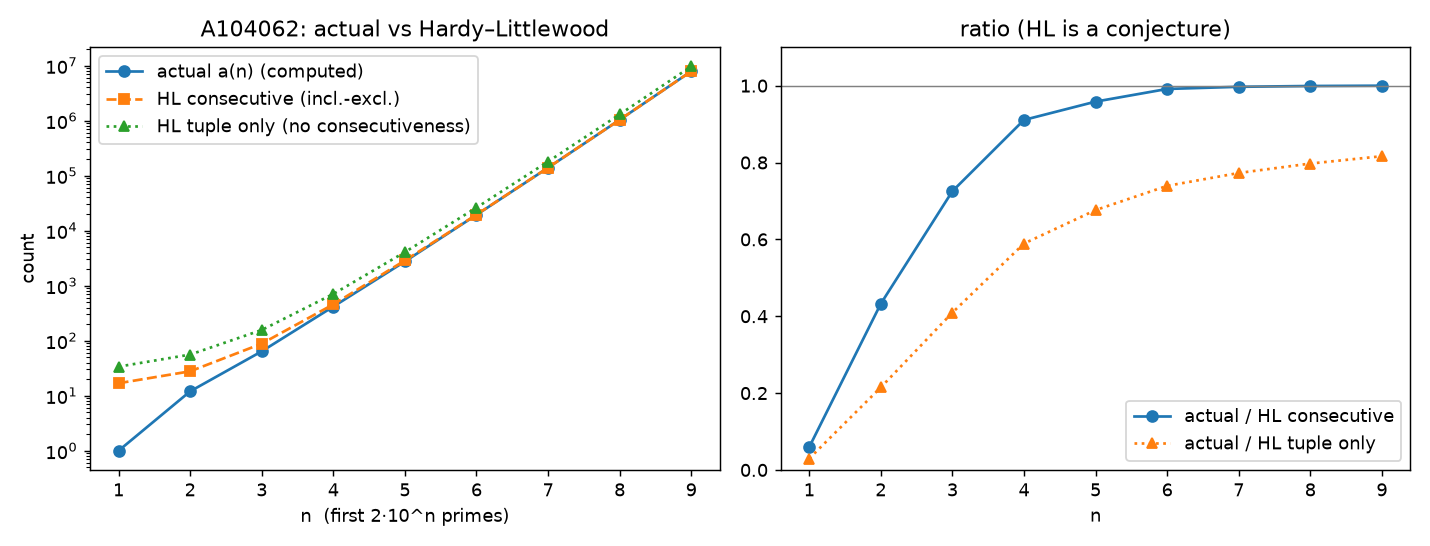
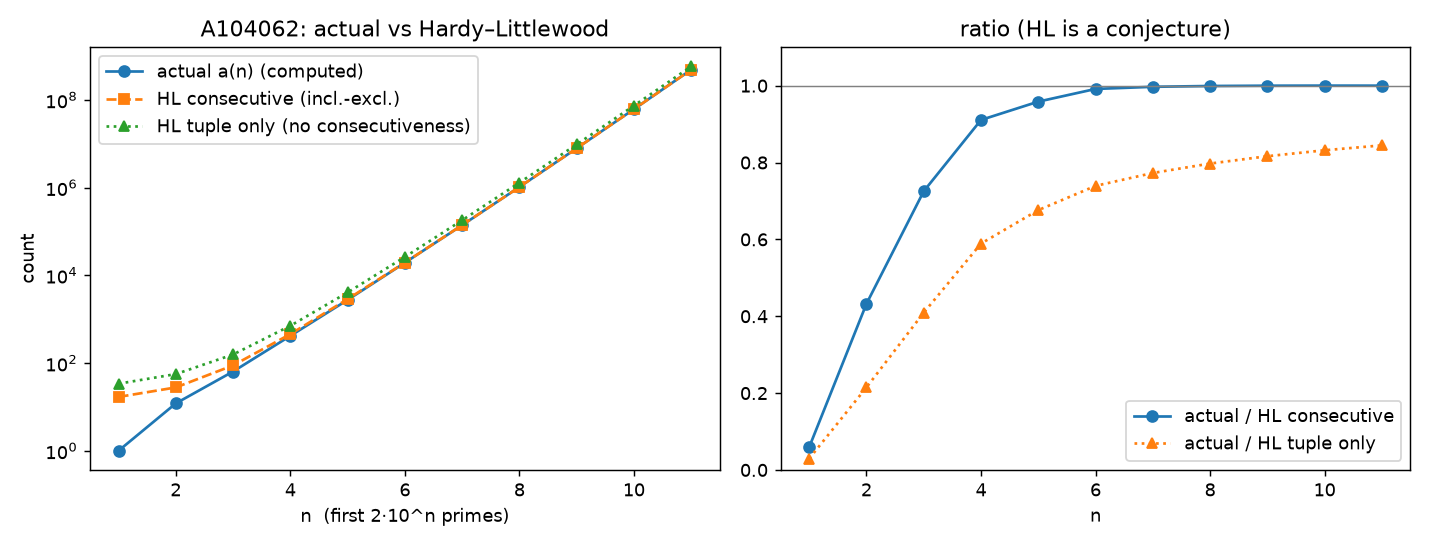
evidence: A104062 a(10)=61341010 (3 box counters agree) and a(11)=487855645 (Actions shards, pass A x20 = pass B x19); p(2e12)=61427839512211 by primecount + primesieve -n; HL ratios n=10,11; plot + README results

diff --git a/evidence/2026-10-16-a104062-a8-a9/README.md b/evidence/2026-10-16-a104062-a8-a9/README.md
@@ -1,4 +1,4 @@
-# A104062 a(8) and a(9) — computed, not proof; pending OEIS review (2026-10-16)
+# A104062 a(8), a(9), a(10), a(11) — computed, not proof; pending OEIS review (2026-10-16)
 
 A104062(n) = number of primes p(i), i ≤ 2·10^n, whose next three consecutive primes are p+6, p+12, p+18.
 Boundary rule: a quadruple is counted only when all four primes lie inside the first N = 2·10^n primes.
@@ -13,7 +13,31 @@ primes around p(N): `primesieve <P-18> <P+60> -p`).
 a(1..6) = 1, 12, 64, 416, 2748, 19348 (published) and a(7) = 138994 (see `../2026-10-16-a104062-a7/`) were reproduced
 by every method below.
 
-## Verifications (all agree exactly)
+## a(10) and a(11) (added 2026-10-16 evening)
+
+| n | N | p(N) | a(n) |
+|---|---|---|---|
+| 10 | 2·10^11 | 5,665,449,960,167 | **61,341,010** |
+| 11 | 2·10^12 | 61,427,839,512,211 | **487,855,645** |
+
+- **a(10), on the box (8 cores), three counters agree exactly.** `qs` (iterator, sharded), `qk` and
+  `tools/a104062/qk_range.c` (array API, 10^9 blocks) each give 61341010 with π(P)=2·10^11 (`a10_outputs.txt`).
+  `primesieve -n 2e11` gives 5665449960167.
+- **a(11), on GitHub Actions, workflow "A104062 shards", run 38969154507 (green).** p(N) comes from `primecount --nth-prime`
+  (primecount 7.16 → 61427839512211). Pass A is `tools/a104062/qs_range.c` over 20 shards; pass B is
+  `tools/a104062/qk_range.c` over 19 shards with different boundaries. Each shard counts quadruples whose first prime is
+  in its range and reads past its end for the next 3 primes, so edge-crossing quadruples are counted exactly once.
+  Pass A gives 487855645 quadruples and Pass B gives 487855645; both count exactly 2·10^12 primes ≤ P, which independently
+  confirms P = p(2·10^12). The workflow was validated first on N = 2·10^8 (run 38965729478 → 138994). The runners use
+  primesieve 12.0; the box uses 12.7.
+- **p(2·10^12) confirmed on the box:** `primesieve -n 2e12` (primesieve 12.7) → **61427839512211** (2583 s, `nth_prime.txt`), matching primecount.
+- **Boundary:** no quadruple straddles p(N) at either cutoff (primes around P listed with `primesieve <P-18> <P+60> -p`).
+- **The colony burst was not run for a(10) or a(11).** About 5·10^4 windows of 10^8 would be needed, well over 50 burst
+  runs, which is not a reasonable use of free compute. So the a(10) and a(11) checks are independent C programs, not the colony.
+- **HL ratio actual/consecutive:** n=10: 1.000121, n=11: 0.999995. This crosses 1, so it is consistent with fluctuation
+  around the HL prediction. It is evidence, not proof.
+
+## Verifications of a(8), a(9) (all agree exactly)
 1. **primesieve 12.7 text pipeline + `q9.c`** (the a(7) counter `/workspace/q.c`, extended to N up to 2·10^10, 64-bit):
    `primesieve 1 518649879439 -p | ./q9` → `q9_pipeline_output.txt` (single thread, 21 min on the box).
 2. **libprimesieve iterator, sharded, OpenMP (`qs.c`)**: `./qs 47055833459 8`, `./qs 518649879439 8` →
@@ -52,6 +76,8 @@ Hardy–Littlewood-type prediction for **consecutive** primes p, p+6, p+12, p+18
 | 7 | 138994 | 7.1839 | 179868.7 | 139407.5 | 0.99703 |
 | 8 | 1031312 | 7.4198 | 1293518.9 | 1032215.2 | 0.99912 |
 | 9 | 7863231 | 7.6245 | 9631449.0 | 7863975.6 | 0.99991 |
+| 10 | 61341010 | 7.8010 | 73737902.8 | 61333608.5 | 1.000121 |
+| 11 | 487855645 | 7.9532 | 577585671.6 | 487857895.1 | 0.999995 |
 
 `hl.py` holds the derivation, `hl.json` the numbers, `plot.py` the plot, and the plot is `a104062_actual_vs_hl.png`.
 

diff --git a/README.md b/README.md
@@ -16,9 +16,9 @@ keep a public, append-only record of everything. A human authorizes anything dur
   value was cross-checked independently with primesieve 12.7 plus a C counter, and with a pure-Python recount.
   *Computed value, not a proof; pending OEIS review.* Evidence and reproduction:
   [`evidence/2026-10-16-a104062-a7/`](evidence/2026-10-16-a104062-a7/README.md).
-- **OEIS A104062: computed a(8) = 1031312 and a(9) = 7863231** (first 2·10^9 and 2·10^10 primes). The colony's
+- **OEIS A104062: computed a(8) = 1031312, a(9) = 7863231, a(10) = 61341010, a(11) = 487855645** (first 2·10^9 … 2·10^12 primes; a(10) by three box counters, a(11) by two independently sharded passes on GitHub Actions). The colony's
   frontier burst and three primesieve-based C counters agree exactly. The Hardy–Littlewood prediction for *consecutive*
-  primes (inclusion–exclusion, constant 8.302 derived here) matches to within 0.01% at n=9. That agreement is evidence,
+  primes (inclusion–exclusion, constant 8.302 derived here) matches to within 0.013% from n=9 to n=11 (actual/predicted 1.000121 at n=10, 0.999995 at n=11). That agreement is evidence,
   not proof. *Computed, not proof; pending OEIS review.*
   [`evidence/2026-10-16-a104062-a8-a9/`](evidence/2026-10-16-a104062-a8-a9/README.md)
 - **Fresh holdout test (holdout_v2): no measured capability gain.** On 12 unseen problems, today's colony
